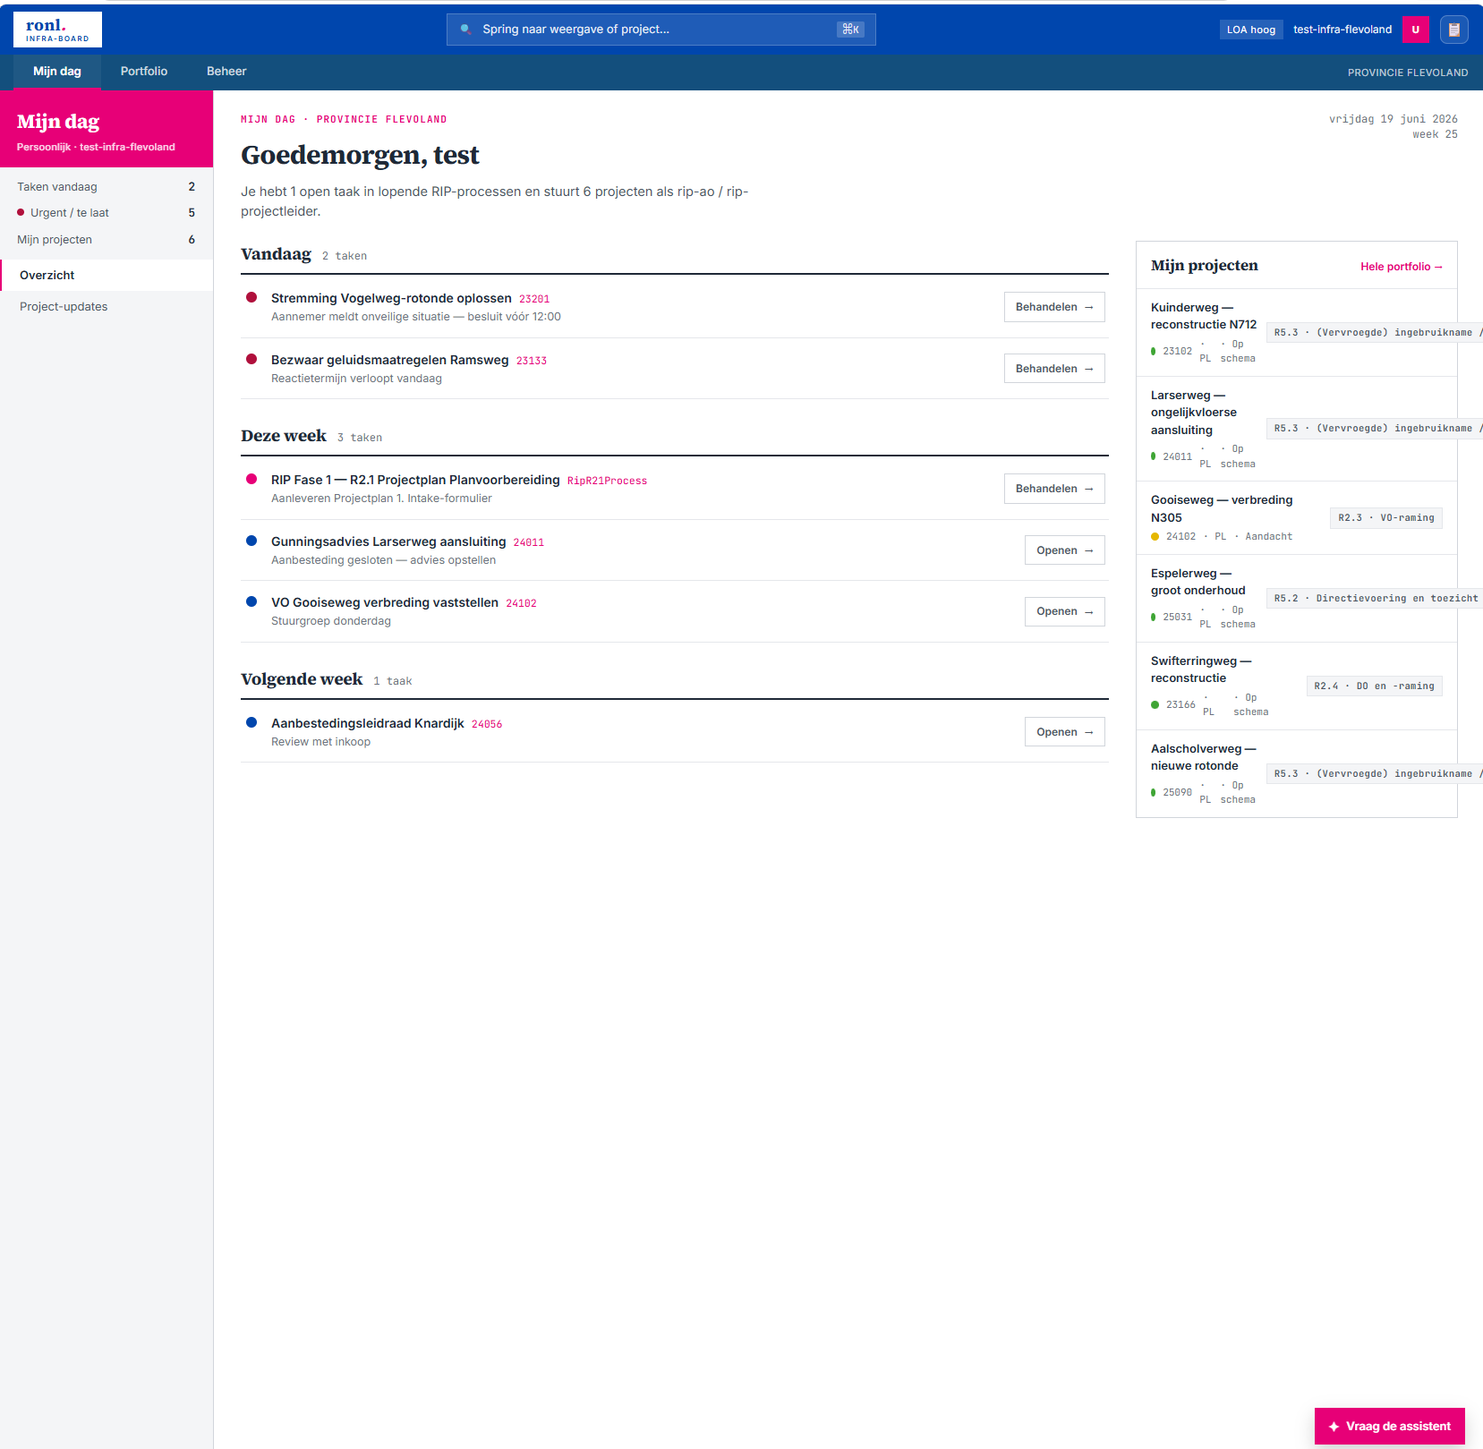
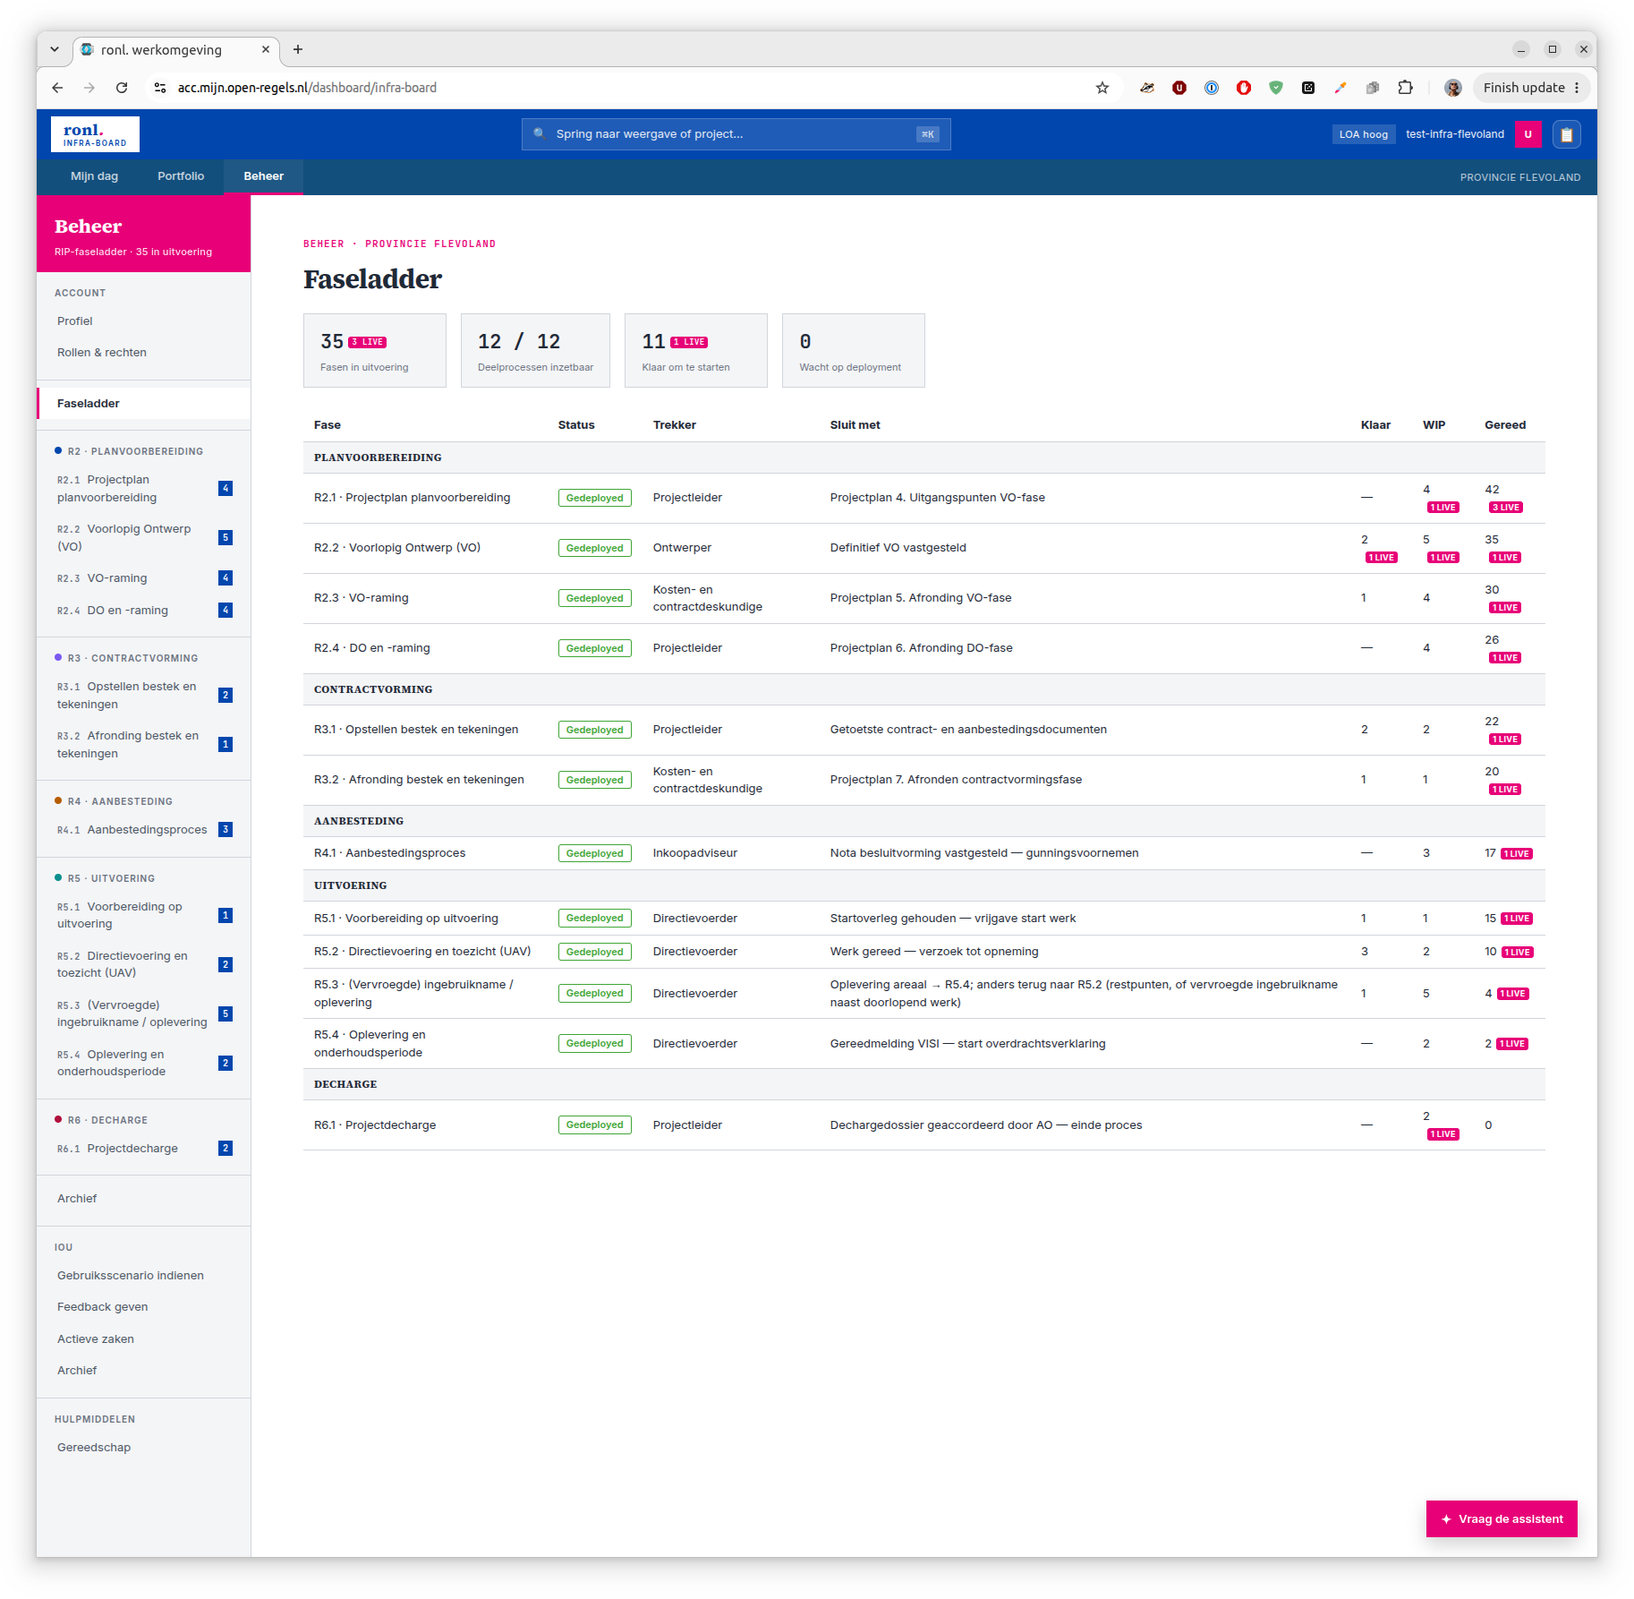
feat(skill): fetch every sibling before reading it, and parse the TypeScript changelog
Two fixes to /iou-document-patch, both from failures in the v2026.09.5 run,
plus the screenshots that run asked for.

Stage 5's sibling drift check told you to read a sibling's shipped version
straight from a local branch. That produced two false readings in a single run,
and the fiction is convincing because it names real components and plausible
versions:

- CPRMV reported as drifted. Its only remote is named gitlab, not origin, so
  `git fetch origin` was a silent no-op, origin/main was a months-old leftover
  ref, and the commit repo-versions.json recorded did not exist in the clone at
  all -- the recorded commit was NEWER than local main. After fetching gitlab it
  was exactly in sync, zero commits behind.
- Norm Editor read as 2026.07.1 before the fetch and 2026.09.1 after. The drift
  was real but understated by two months.

Stage 5 now opens with a fetch loop that prints each repository's remote names,
and the table reads from remote-tracking refs throughout rather than from
`main` or a local `acc`. The CPRMV row says outright that both main and
origin/main are stale in the usual clone. The stage already warned that a stale
clone manufactures findings; it just did not say which clone.

The second fix removes a standing limitation. RONL Business API keeps its
changelog in a TypeScript module, which version-gap.py cannot read: unquoted
keys, single quotes, trailing commas and a union type in the items arrays all
[…]

diff --git a/.claude/skills/iou-document-patch/scripts/ts-changelog.js b/.claude/skills/iou-document-patch/scripts/ts-changelog.js
@@ -1,0 +1,161 @@
+#!/usr/bin/env node
+/**
+ * ts-changelog.js — read a TypeScript changelog module without parsing it as JSON.
+ *
+ * RONL Business API keeps its changelog in
+ * `packages/frontend/src/pages/changelog-data.ts`, which `version-gap.py` cannot
+ * read: unquoted keys, single quotes, trailing commas and a union type mixed
+ * into `items` arrays all defeat `json.loads`. The skill previously said to read
+ * that file by hand, because the obvious fix — regexing `key:` into `"key":` —
+ * mangles any colon appearing inside changelog prose, and this changelog is
+ * mostly prose.
+ *
+ * The observation that makes it easy: the file's *data* is a plain JavaScript
+ * object literal. Everything TypeScript-specific is in the interfaces above it.
+ * So slice off everything before the assignment, evaluate the literal as an
+ * expression in a throwaway context, and hand back a real structure. No regex
+ * touches the content.
+ *
+ * Usage:
+ *   node ts-changelog.js <file.ts>                  # one line per version
+ *   node ts-changelog.js <file.ts> --json           # the whole object
+ *   node ts-changelog.js <file.ts> --gap 2026.08.36 # entries newer than this
+ *   node ts-changelog.js <file.ts> --latest         # newest version string only
+ *
+ * Read the file from a ref, not the working tree:
+ *   git -C ../ronl-business-api show origin/acc:packages/frontend/src/pages/changelog-data.ts > /tmp/cl.ts
+ *
+ * Exits non-zero if the file cannot be located or the literal cannot be
+ * evaluated, rather than returning something plausible and empty.
+ */
+
+const fs = require("node:fs");
+const vm = require("node:vm");
+
+const args = process.argv.slice(2);
+const path = args[0];
+if (!path) {
+  console.error(
+    "usage: ts-changelog.js <file.ts> [--json|--latest|--gap <version>]",
+  );
+  process.exit(2);
+}
+
+const src = fs.readFileSync(path, "utf8");
+
+const marker = src.indexOf("export const changelog");
+if (marker === -1) {
+  console.error(
+    `no \`export const changelog\` in ${path} — is this the right file?`,
+  );
+  process.exit(1);
+}
+const eq = src.indexOf("=", marker);
+if (eq === -1) {
+  console.error("no assignment found after `export const changelog`");
+  process.exit(1);
+}
+
+// Everything after the '=' is the literal, optionally followed by a semicolon
+// and further exports; wrapping in parentheses makes it an expression, and the
+// parser stops at the end of the literal.
+let body = src.slice(eq + 1).trim();
+if (body.endsWith(";")) body = body.slice(0, -1);
+
+let changelog;
+try {
+  changelog = vm.runInNewContext(`(${body})`, Object.create(null), {
+    timeout: 5000,
+  });
+} catch (err) {
+  console.error(`could not evaluate the changelog literal: ${err.message}`);
+  console.error(
+    "If this file has grown a real TypeScript construct in its data " +
+      "(a type assertion, an enum reference, a template literal with an " +
+      "expression), this shim no longer applies — say so rather than " +
+      "working around it.",
+  );
+  process.exit(1);
+}
+
+const versions = changelog?.versions;
+if (!Array.isArray(versions) || versions.length === 0) {
+  console.error(
+    "parsed, but `versions` is missing or empty — refusing to report a gap",
+  );
+  process.exit(1);
+}
+
+const key = (v) =>
+  String(v)
+    .replace(/^v/i, "")
+    .split(".")
+    .map((n) => parseInt(n, 10) || 0);
+const cmp = (a, b) => {
+  const x = key(a);
+  const y = key(b);
+  for (let i = 0; i < Math.max(x.length, y.length); i++) {
+    if ((x[i] ?? 0) !== (y[i] ?? 0)) return (x[i] ?? 0) - (y[i] ?? 0);
+  }
+  return 0;
+};
+
+if (args.includes("--json")) {
+  process.stdout.write(JSON.stringify(changelog, null, 2));
+  process.exit(0);
+}
+
+if (args.includes("--latest")) {
+  console.log(versions[0].version);
+  process.exit(0);
+}
+
+const gapIdx = args.indexOf("--gap");
+if (gapIdx !== -1) {
+  const from = args[gapIdx + 1];
+  if (!from) {
+    console.error("--gap needs a version, e.g. --gap 2026.08.36");
+    process.exit(2);
+  }
+  const gap = versions.filter((v) => cmp(v.version, from) > 0).reverse();
+  if (gap.length === 0) {
+    console.log(`in sync — nothing newer than ${from}`);
+    process.exit(0);
+  }
+  for (const v of gap) {
+    const scope = Array.isArray(v.scope)
+      ? v.scope.join(", ")
+      : (v.scope ?? "-");
+    const entries = v.commits ?? v.sections ?? [];
+    const types = {};
+    for (const c of entries) types[c.type] = (types[c.type] ?? 0) + 1;
+    console.log(`\n${"=".repeat(78)}`);
+    console.log(`## ${v.version} — ${v.date} (${v.status})  scope: ${scope}`);
+    console.log(
+      `   ${entries.length} entries — ` +
+        Object.entries(types)
+          .sort((a, b) => b[1] - a[1])
+          .map(([t, n]) => `${t}=${n}`)
+          .join(" "),
+    );
+    console.log("=".repeat(78));
+    for (const c of entries) {
+      console.log(
+        `\n### ${c.sha ?? ""} [${c.type ?? "?"}] ${c.subject ?? c.title ?? ""}`,
+      );
+      for (const d of c.details ?? c.items ?? []) {
+        console.log(`  - ${typeof d === "string" ? d : JSON.stringify(d)}`);
+      }
+    }
+  }
+  process.exit(0);
+}
+
+for (const v of versions) {
+  const scope = Array.isArray(v.scope) ? v.scope.join("+") : (v.scope ?? "-");
+  const n = (v.commits ?? v.sections ?? []).length;
+  console.log(
+    `${String(v.version).padEnd(12)} ${String(v.date).padEnd(14)} ` +
+      `${String(v.status).padEnd(10)} scope=${scope.padEnd(28)} ${n} entries`,
+  );
+}

diff --git a/.claude/skills/iou-document-patch/SKILL.md b/.claude/skills/iou-document-patch/SKILL.md
@@ -47,7 +47,7 @@ adapt the paths — the same staging applies.
 |---|---|---|---|
 | **Norm Editor** | sibling repo **`../editor`** (confirmed on the Windows workstation at `C:\Users\gorts01\Development\editor`; also seen at `/home/steven/Development/editor` on Linux) | `gui/public/changelog.json`, schema **`{versions: {<service>: <semver>, ...}, releases: [{version, date, changes: {<conventional-commit-type>: [commit, ...]}, commits: [...]}]}`** — git-log-derived, not curated. `version-gap.py` auto-detects this shape (a `releases` array) vs. the curated `versions` array and normalizes both to the same `sections`/`items` shape; it also drops the synthetic `"Unreleased"` pseudo-version. Pass `--changelog <path> --component "Norm Editor"` explicitly. | No `developer/changelog-roadmap.md` existed before the 2026.07.0 sync (create it + add the mkdocs.yml nav entry — don't assume the page is there). Docs currently have **zero** screenshots — don't force a manifest entry for that reason alone. `docs/nl/index.md` is a placeholder with no "What's New" section to mirror at all — check before assuming both `docs/en/index.md` and `docs/nl/index.md` need the card edit. Because the first tag can land long after the code it covers, don't backfill version numbers onto pre-existing features you can't date — only claim what genuinely changed inside the tagged commit range. |
 | **Linked Data Explorer** | sibling repo `../linked-data-explorer` | `packages/frontend/src/changelog.json` — a dict with a **`versions`** array, same curated `format: "commits"` shape as the CPSV Editor, plus a per-entry `scope` field (`frontend` / `backend` / `both`, absent on most). **`version-gap.py` works against it unmodified** — pass `--changelog ../linked-data-explorer/packages/frontend/src/changelog.json --component "Linked Data Explorer"`. | Versions switched from SemVer to CalVer mid-history (…, 1.9.12, 1.9.13, 2026.07.0, …), so an ordered gap can span both schemes — the same transition the CPSV Editor made. `repo-versions.json` and the roadmap headings carry a `v` prefix; the changelog does not. **i18n differs from the CPSV Editor**: all 60 EN pages have an NL counterpart, and **three are real translations** — `developer/backend.md`, `reference/api-stability.md`, `user-guide/multilingualism.md` — so check each NL page before assuming it is a placeholder. A screenshot manifest already exists at `screenshot-manifest/linked-data-explorer-screenshots-todo.md`. There is no `developer/testing.md` yet (note `developer/test-cases.md` is a *feature* doc, not the test-suite page). |
-| **RONL Business API** | sibling repo `../ronl-business-api` | `packages/frontend/src/pages/changelog-data.ts` — a **TypeScript file**, not JSON: unquoted object keys, mixed single/double-quoted strings, trailing commas, and a `ChangelogItem = string \| FeedbackItem` union mixed into `items` arrays. `version-gap.py`'s `json.loads()` cannot parse it directly, and no safe regex conversion exists (a colon inside changelog prose would get mangled by a naive `key:` → `"key":` transform). **Do not run `version-gap.py` against this component** — manually read the `versions` array in `changelog-data.ts` and compare against `repo-versions.json`'s `"RONL Business API"` entry / the top heading in `developer/changelog-roadmap.md` to compute the gap, until a Node-based `.ts`→JSON shim is built for it. | Version strings carry a `v` prefix in `repo-versions.json` and `changelog-roadmap.md` headings (`v3.9.1`) but not in `changelog-data.ts` itself (`'3.9.1'`) — normalize before comparing. **Documentation convention for User Guides**: pages are **ACC-brief / PROD-full** — a page's depth follows the release maturity of what it documents, not a fixed template. The current set is Getting Started, four board pages (Caseworker, PA-Cockpit, Infra-board, Woo-dashboard), and Public Site. `user-guide/test-guides/` holds live Dutch test scripts that are **maintained, not archived** — never give them the archive banner or treat them as frozen. Promoting a board from ACC to PROD is the trigger to expand its brief page into a full guide. |
+| **RONL Business API** | sibling repo `../ronl-business-api` | `packages/frontend/src/pages/changelog-data.ts` — a **TypeScript file**, not JSON: unquoted object keys, mixed single/double-quoted strings, trailing commas, and a `ChangelogItem = string \| FeedbackItem` union mixed into `items` arrays. `version-gap.py`'s `json.loads()` cannot parse it directly, and no safe regex conversion exists (a colon inside changelog prose would get mangled by a naive `key:` → `"key":` transform). **Use the shim, not `version-gap.py`:** `node .claude/skills/iou-document-patch/scripts/ts-changelog.js <file.ts>`, with `--latest`, `--gap <version>` or `--json`. It slices off everything before the `export const changelog` assignment and evaluates the remaining object literal as a JavaScript expression in a throwaway `vm` context, so nothing regexes the content. Feed it a file read from a **ref**, not the working tree. If it reports that it cannot evaluate the literal, the data has grown a real TypeScript construct — say so rather than working around it. | Version strings carry a `v` prefix in `repo-versions.json` and `changelog-roadmap.md` headings (`v3.9.1`) but not in `changelog-data.ts` itself (`'3.9.1'`) — normalize before comparing. **Documentation convention for User Guides**: pages are **ACC-brief / PROD-full** — a page's depth follows the release maturity of what it documents, not a fixed template. The current set is Getting Started, four board pages (Caseworker, PA-Cockpit, Infra-board, Woo-dashboard), and Public Site. `user-guide/test-guides/` holds live Dutch test scripts that are **maintained, not archived** — never give them the archive banner or treat them as frozen. Promoting a board from ACC to PROD is the trigger to expand its brief page into a full guide. |
 
 ### i18n rule (do not violate)
 
@@ -648,7 +648,10 @@ Work in this order so a failure leaves the docs in an obvious half-state:
 ## Stage 4 — Verify & report
 
 1. Re-run `version-gap.py` — it should now report `in_sync` (roadmap top ==
-   documented == latest).
+   documented == latest). **For RONL Business API use
+   `scripts/ts-changelog.js --latest` instead**, and compare the three by hand:
+   `repo-versions.json`'s entry, the top `## vX.Y.Z` heading in
+   `changelog-roadmap.md`, and the shim's answer. All three must agree.
 2. **Manifest consistency** — confirm every manifest filename is embedded in at
    least one page (enforces the Stage 2b invariant):
 
@@ -732,13 +735,41 @@ a stale clone it reports fiction, and the fiction is convincing: it names real
 components and plausible version numbers. That is exactly how the 29 August run
 produced a false "CPSV Editor is two releases behind".
 
+!!! danger "Fetch every sibling before reading it, and check what its remote is called"
+    A sibling clone is stale far more often than the docs are wrong, so an
+    unfetched read manufactures drift findings that look entirely real. **Two of
+    the five produced a false reading in a single run** on 5 September 2026:
+
+    - **CPRMV** reported as drifted. Its only remote is named **`gitlab`**, not
+      `origin`, so `git fetch origin` was a silent no-op, `origin/main` was a
+      months-old leftover ref, and the *recorded* commit did not exist locally at
+      all — the recorded commit was **newer** than local `main`. After fetching
+      `gitlab`, it was exactly in sync, 0 commits behind.
+    - **Norm Editor** read as `2026.07.1` before the fetch and `2026.09.1` after
+      — the drift was real but understated by two months.
+
+    So, first:
+
+    ```bash
+    for r in ttl-editor linked-data-explorer ronl-business-api editor cprmv; do
+      [ -d "../$r/.git" ] || continue
+      echo "== $r: $(git -C ../$r remote | tr '\n' ' ')"
+      git -C ../$r fetch --all --prune --quiet
+    done
+    ```
+
+    Then read from a **remote-tracking ref** — `<remote>/acc`, not the local
+    `acc`, and never `rev-parse main`, which reads whatever the local branch
+    happens to point at. Substitute the remote name the loop printed; it is not
+    `origin` everywhere.
+
 | Component | Read the shipped version from |
 |---|---|
-| CPSV Editor | `git -C ../ttl-editor show acc:package.json` → `version` |
-| Linked Data Explorer | `git -C ../linked-data-explorer show acc:packages/frontend/src/changelog.json` → first `versions[]` |
-| RONL Business API | `git -C ../ronl-business-api show acc:packages/frontend/src/pages/changelog-data.ts` → first `version:` (TypeScript — read it, do not `json.loads` it) |
+| CPSV Editor | `git -C ../ttl-editor show origin/acc:package.json` → `version` |
+| Linked Data Explorer | `git -C ../linked-data-explorer show origin/acc:packages/frontend/src/changelog.json` → first `versions[]` |
+| RONL Business API | `git -C ../ronl-business-api show origin/acc:packages/frontend/src/pages/changelog-data.ts` → first `version:` — TypeScript, so use the shim in `scripts/ts-changelog.js` rather than `json.loads` |
 | Norm Editor | `git -C ../editor show origin/main:gui/public/changelog.json` → first non-`Unreleased` `releases[]`. **Its releases live on `main`, not `acc`**, though `repo-versions.json` records the environment as `acc` — check both and say which you read |
-| CPRMV | `git -C ../cprmv rev-parse --short main` against the recorded `commit` |
+| CPRMV | `git -C ../cprmv rev-parse --short gitlab/main` against the recorded `commit`. **Its remote is `gitlab`** — `main` and `origin/main` are both stale in the usual clone |
 
 Read from a **ref**, never the working tree — a sibling repo is very often
 parked on a feature branch, and its working tree will answer confidently and

diff --git a/screenshot-manifest/ronl-business-api-screenshots-todo.md b/screenshot-manifest/ronl-business-api-screenshots-todo.md
@@ -1,21 +1,22 @@
 # RONL Business API — screenshots to capture
 
-!!! warning "Two outstanding — see the v2026.09.5 section below"
-    One **NEW** capture and one **REPLACE**, both triggered by the RIP ladder
-    reaching twelve of twelve phases and the phase diagram becoming
-    BPMN-derived. Everything from earlier sections has been captured; this file
-    is also the record of what each image shows and why it was needed.
+!!! success "Nothing outstanding"
+    Every screenshot this manifest calls for has been captured, including the two
+    the v2026.09.5 sync requested — both landed on 5 September 2026, the same day
+    they were asked for. The file is retained as the record of what each image
+    shows and why it was needed.
 
-## Sync v2026.08.36 → v2026.09.5 — one NEW, one REPLACE
+## Sync v2026.08.36 → v2026.09.5 — one NEW, one REPLACE (both captured)
 
 Reviewed on 5 September 2026 for the six-version gap covering **v2026.09.0**
 through **v2026.09.5**. Unlike the two preceding entries, this release does
-change what a reader sees, so there are rows.
+change what a reader sees, so there are rows — **both captured the same day**,
+and a non-strict `mkdocs build` now reports no missing-image warning at all.
 
 | # | Status | File | Embedding page | What it must show | Trigger |
 |---|---|---|---|---|---|
-| 1 | **NEW** | `ronl-business-api-rip-phase-swimlane.png` | `user-guide/infra-board.md` | A phase diagram **derived from deployed BPMN** — lanes with their names, per-task colouring (todo / active / done), and at least one **rework loop** routed in its own band below the lane rows. Ideally a phase other than R2.1, since R2.1 is the one phase whose diagram looked correct before this work | v2026.09.4 |
-| 2 | **REPLACE** | `ronl-business-api-infra-board.png` | `user-guide/infra-board.md` | The board with the **Faseladder reading `12 / 12 deelprocessen inzetbaar`**. The current capture predates the ladder being complete and shows the old count | v2026.09.3 |
+| 1 | ✅ **DONE** (was NEW) | `ronl-business-api-rip-phase-swimlane.png` | `user-guide/infra-board.md` | A phase diagram **derived from deployed BPMN** — lanes with their names, per-task colouring (todo / active / done), and at least one **rework loop** routed in its own band below the lane rows. Ideally a phase other than R2.1, since R2.1 is the one phase whose diagram looked correct before this work | v2026.09.4 |
+| 2 | ✅ **DONE** (was REPLACE) | `ronl-business-api-infra-board.png` | `user-guide/infra-board.md` | The board with the **Faseladder reading `12 / 12 deelprocessen inzetbaar`**. The current capture predates the ladder being complete and shows the old count | v2026.09.3 |
 
 **Why item 1 is worth capturing and the signing panel was not.** The previous
 entry declined a screenshot because the feature could not be photographed
